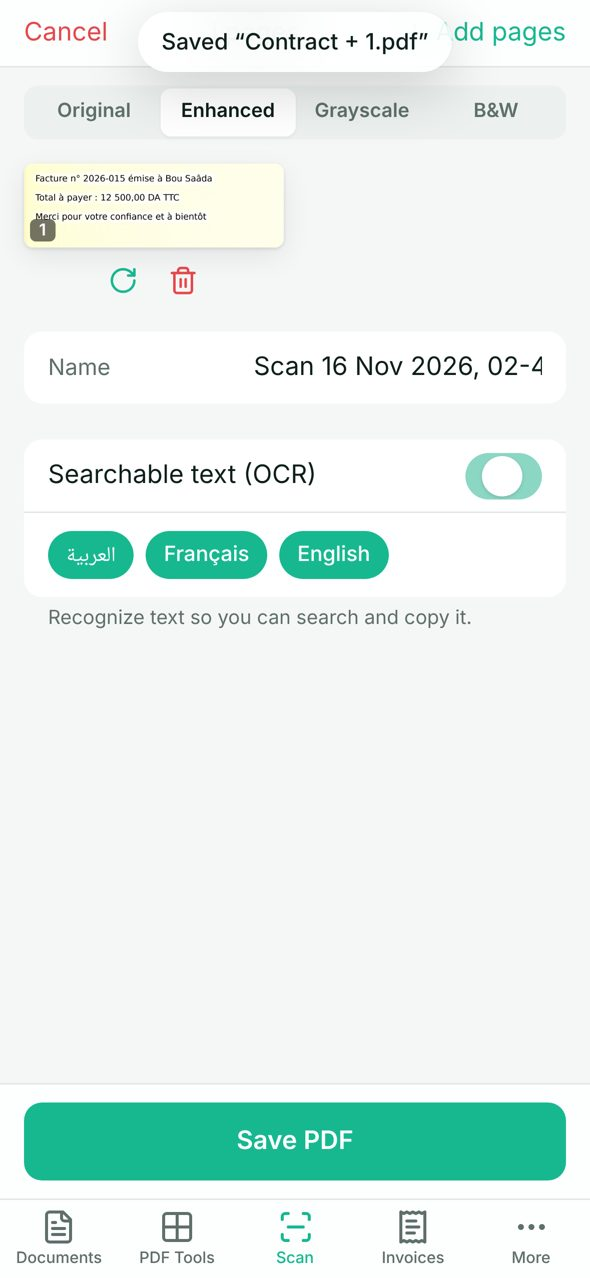
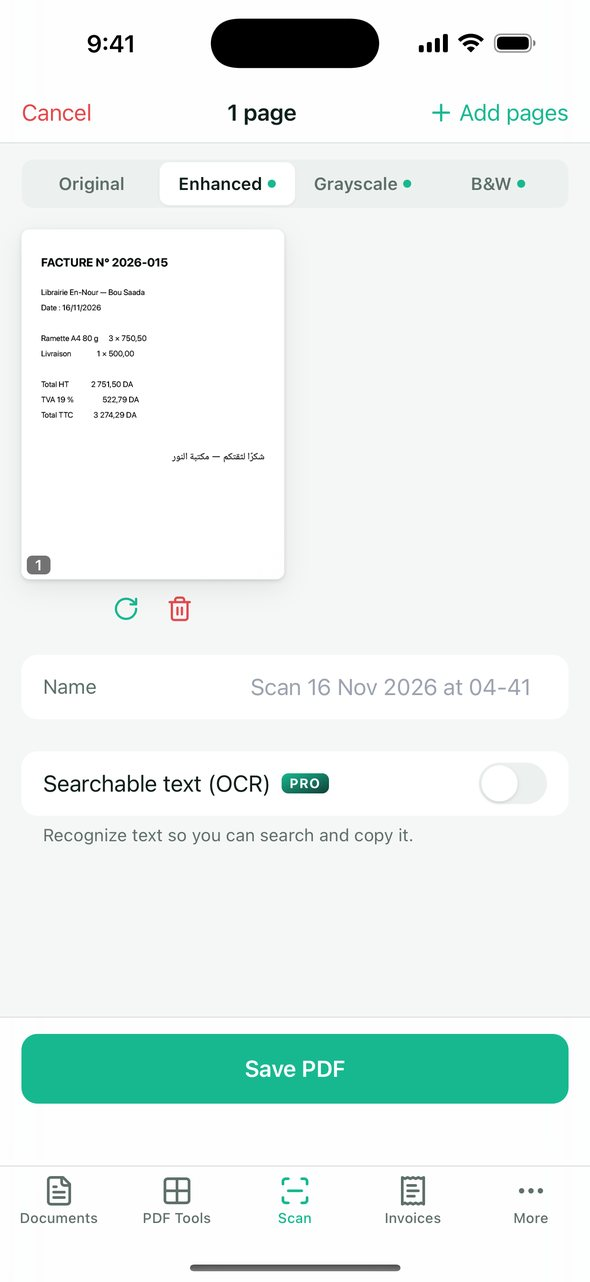
docs(ios): latest CI evidence (8d651e0: build ok, 30/30 simulator captures, StoreKit 7/7), scan-review App Store screenshots (iPhone 6.9" + iPad 13", en/ar), site scan image from the simulator
Claude-Session: https://claude.ai/code/session_01LfDiUxqusgUa7vbRChSDFd

diff --git a/site/nova-docs/index.html b/site/nova-docs/index.html
@@ -66,7 +66,7 @@
 
 <section style="padding-top:0"><div class="wrap">
   <div class="shots"><img src="assets/screens/edit.jpg" alt="" /><img src="assets/screens/tools.jpg" alt="" /><img src="assets/screens/scan.jpg" alt="" /><img src="assets/screens/invoice.jpg" alt="" /><img src="assets/screens/pro.jpg" alt="" /></div>
-  <p class="note"><span data-l="ar">التحرير والأدوات والفاتورة: لقطات حقيقية من التطبيق على محاكي iOS (iPhone 16 Pro Max). المسح وPro: معاينة الواجهة نفسها.</span><span data-l="fr">Édition, outils et facture : captures réelles de l’app sur le simulateur iOS (iPhone 16 Pro Max). Scan et Pro : aperçu de la même interface.</span><span data-l="en">Editing, tools and invoice: real captures of the app on the iOS simulator (iPhone 16 Pro Max). Scan and Pro: preview of the same UI.</span></p>
+  <p class="note"><span data-l="ar">التحرير والأدوات والمسح والفاتورة: لقطات حقيقية من التطبيق على محاكي iOS (iPhone 16 Pro Max). Pro: معاينة الواجهة نفسها.</span><span data-l="fr">Édition, outils, scan et facture : captures réelles de l’app sur le simulateur iOS (iPhone 16 Pro Max). Pro : aperçu de la même interface.</span><span data-l="en">Editing, tools, scan and invoice: real captures of the app on the iOS simulator (iPhone 16 Pro Max). Pro: preview of the same UI.</span></p>
 </div></section>
 
 <section style="padding-top:0"><div class="wrap"><div class="pro">

diff --git a/docs/ios/MORNING_REPORT.md b/docs/ios/MORNING_REPORT.md
@@ -1,6 +1,6 @@
 # التقرير الصباحي — NOVA Docs: PDF & Invoices (iPhone / iPad)
 
-> **آخر تحديث:** الاثنين 16 نوفمبر 2026، نحو 05:25 بتوقيت الجزائر.
+> **آخر تحديث:** الاثنين 16 نوفمبر 2026، نحو 06:10 بتوقيت الجزائر.
 > هذا التقرير يُحدَّث في جلسات المتابعة المجدولة (16 نوفمبر 07:40 و20:00، ثم 17 نوفمبر 07:15 لتسليم الصيغة النهائية قبل 08:00).
 > **لا أدّعي أي عمل بين الجلسات:** كل ما هو مكتوب هنا له دليل في Git أو في نتائج CI.
 
@@ -13,8 +13,8 @@
 |---|---|
 | هل التطبيق جاهز للتقديم إلى App Store؟ | **لا.** ينقص: حساب Apple جاهز (اتفاقية التطبيقات المدفوعة، البنك، الضرائب)، منتج Pro في App Store Connect، توقيع وTestFlight، اختبار على جهاز حقيقي، ونشر روابط الخصوصية والدعم. |
 | الجاهزية الإجمالية | **≈ 65%** (الجدول في §9.8). الجزء الهندسي الممكن دون حسابك وجهازك: **≈ 88%**. |
-| بناء iOS | **BUILD SUCCEEDED** — Xcode 26.3 (17C529)، Debug للمحاكي وRelease للجهاز (دون توقيع). |
-| التشغيل على iOS | محاكي iPhone 16 Pro Max وiPad Pro 13": **20 / 20 مشهدًا صحيحًا**، والحفظ يبقى بعد إعادة التشغيل. |
+| بناء iOS | **BUILD SUCCEEDED** — Xcode 26.3 (17C529)، Debug للمحاكي وRelease للجهاز (دون توقيع)؛ آخر تأكيد على `8d651e0`. |
+| التشغيل على iOS | محاكي iPhone 16 Pro Max وiPad Pro 13": **30 / 30 لقطة صحيحة** (15 مشهدًا لكل جهاز)، والحفظ يبقى بعد إعادة التشغيل. |
 | StoreKit 2 | **7 / 7** اختبارات شراء حقيقية في بيئة StoreKit Testing من Apple. Sandbox: **BLOCKED**. |
 | TestFlight | **BLOCKED** — سير العمل جاهز، تنقصه أسرار حسابك. |
 | Windows | لم يتعطل: typecheck + **88 / 88**. المجلد `platform/` لم يُلمس. |
@@ -68,13 +68,13 @@
 | الأداء (Node): 600 صفحة دمجًا، 1000 فاتورة | كلها < 1 ث (الجهاز غير مقاس) |
 
 ## 6) حالة بناء iOS
-**ناجح.** macOS-15 على GitHub، Xcode 26.3 (17C529)، SDK المحاكي iOS 26.2، هدف النشر iOS 16.0. آخر بناء مؤكد: `5512166`. الدليل: فحوص PR #95 والفرع `ci/nova-docs-ios-results` (`xcode-version.txt`، `xcodebuild-tail.log`).
+**ناجح.** macOS-15 على GitHub، Xcode 26.3 (17C529)، SDK المحاكي iOS 26.2، هدف النشر iOS 16.0. آخر بناء مؤكد: `8d651e0` (يشمل إضافة قفل التطبيق الأصلية). الدليل: فحوص PR #95 والفرع `ci/nova-docs-ios-results` (`xcode-version.txt`، `xcodebuild-tail.log`).
 
 ## 7) حالة TestFlight
 **BLOCKED — لم يُرفع أي بناء.** الجاهز: سير العمل `nova-docs-testflight.yml` (يدوي، Environment `apple-release`، توقيع تلقائي بمفتاح App Store Connect API). الناقص: الأسرار `APPLE_TEAM_ID`، `ASC_KEY_ID`، `ASC_ISSUER_ID`، `ASC_KEY_P8_BASE64` + تسجيل التطبيق في App Store Connect. الخطوات في `APP_STORE_CHECKLIST.md`.
 
 ## 8) اللقطات
-- للمتجر: `docs/ios/screenshots/iphone-6.9/` (1320×2868) و`ipad-13/` (2064×2752): المحرر، الأدوات، الفواتير، تفاصيل فاتورة، الفواتير بالعربية، الأدوات بالعربية الداكنة.
+- للمتجر: `docs/ios/screenshots/iphone-6.9/` (1320×2868) و`ipad-13/` (2064×2752) — 8 لكل جهاز: المحرر، الأدوات، الفواتير، تفاصيل فاتورة، الفواتير بالعربية، الأدوات بالعربية الداكنة، مراجعة المسح (إنجليزي وعربي).
 - كل مشاهد كل تشغيل: الفرع `ci/nova-docs-ios-results` ← `shots/`.
 
 ---
@@ -144,7 +144,7 @@
 | بناء iOS (Debug + Release) | 10 | 100% | BUILD SUCCEEDED |
 | التشغيل على محاكي iOS | 10 | 85% | 20/20 مشهدًا + OCR وتصدير الفاتورة داخل iOS؛ الكاميرا غير متاحة على المحاكي |
 | المدفوعات: الشيفرة واختبارات StoreKit | 10 | 85% | 7/7 StoreKit Testing + 13/13 منطق الواجهة؛ Sandbox ناقص |
-| مواد المتجر | 10 | 80% | نصوص ar/fr/en، أيقونة، Privacy Manifest، 12 لقطة؛ تحتاج مراجعتك |
+| مواد المتجر | 10 | 80% | نصوص ar/fr/en، أيقونة، Privacy Manifest، 16 لقطة؛ تحتاج مراجعتك |
 | اختبار جهاز حقيقي | 10 | 0% | لا جهاز |
 | حساب Apple (اتفاقيات، بنك، منتج في ASC، Sandbox) | 10 | 0% | غير معروف — يحتاجك |
 | التوقيع وTestFlight | 5 | 20% | سير العمل جاهز، الأسرار ناقصة |

diff --git a/docs/ios/TEST_RESULTS.md b/docs/ios/TEST_RESULTS.md
@@ -83,10 +83,10 @@ PDF قابل للبحث من صفحة ممسوحة: النص المستخرج ب
 macOS-15 على GitHub، **Xcode 26.3 (17C529)**:
 - Debug للمحاكي: **BUILD SUCCEEDED**
 - Release للجهاز (arm64، دون توقيع): **BUILD SUCCEEDED**
-- ناجح على الدفعات: `09d39fb`، `fa9ddfd`، `fad579b`، `72ed615`، `ef096ae`، `5512166` (SDK المحاكي: iOS 26.2، هدف النشر iOS 16.0).
+- ناجح على الدفعات: `09d39fb`، `fa9ddfd`، `fad579b`، `72ed615`، `ef096ae`، `5512166`، `2efccba`، `9d77673`، `8d651e0` (SDK المحاكي: iOS 26.2، هدف النشر iOS 16.0).
 
 ## 7) التشغيل على محاكي iOS الحقيقي — COMPLETE للمشاهد العشر / PARTIAL للتطبيق ككل
-الأجهزة: **iPhone 16 Pro Max** و**iPad Pro 13-inch (M4)**. 10 مشاهد لكل جهاز تُلتقط آليًا في كل تشغيل؛ آخر تشغيل كامل: `5512166` — **20 / 20 مشهدًا صحيحًا**.
+الأجهزة: **iPhone 16 Pro Max** و**iPad Pro 13-inch (M4)**. 15 مشهدًا لكل جهاز تُلتقط آليًا في كل تشغيل؛ آخر تشغيل كامل: `8d651e0` — **30 / 30 لقطة صحيحة** (منها: الاختباران الذاتيان، مراجعة المسح بالعربية والإنجليزية بعد المرشح الجديد، الإعدادات مع قفل التطبيق — الإضافة الأصلية `NovaLock` ترد على iOS).
 نسخة مختارة محفوظة للمتجر في `docs/ios/screenshots/iphone-6.9/` (1320×2868) و`ipad-13/` (2064×2752).
 
 ما ثبت على iOS نفسه (WKWebView + Swift، من السجلات واللقطات):
@@ -123,7 +123,7 @@ macOS-15 على GitHub، **Xcode 26.3 (17C529)**:
 هدف `AppTests` (SKTestSession + `NovaDocs.storekit`) يختبر الملف الذي يستعمله التطبيق نفسه `NovaEntitlements.swift`:
 المنتج Non-Consumable بسعر 4.99 وليس اشتراكًا · الشراء الموثّق يفتح · Ask to Buy معلّق لا يفتح ثم الموافقة تفتح · الرفض لا يفتح · الاسترداد يسحب · الشراء الفاشل لا يفتح · شراء من جهاز آخر يُعترف به (أساس الاستعادة).
 
-**النتيجة (تشغيل CI على `5512166`، محاكي iPhone 16 Pro Max، Xcode 26.3): 7 / 7 ناجحة — `** TEST SUCCEEDED **`**
+**النتيجة: 7 / 7 ناجحة — `** TEST SUCCEEDED **`** على `5512166` ثم أُعيدت بنجاح في كل تشغيل لاحق (`2efccba`، `9d77673`، `8d651e0`)، محاكي iPhone 16 Pro Max، Xcode 26.3.
 
 | الاختبار | النتيجة | الزمن |
 |---|---|---|

diff --git a/docs/ios/APP_STORE_CHECKLIST.md b/docs/ios/APP_STORE_CHECKLIST.md
@@ -14,7 +14,7 @@
 | 10 | منتج StoreKit + ملف اختبار | COMPLETE (شيفرة + 7/7 اختبارات StoreKit Testing) / BLOCKED (App Store Connect) | المنتج يجب أن يُنشأ في App Store Connect بالمعرّف نفسه حرفيًا |
 | 11 | وصف المتجر والكلمات المفتاحية ar/fr/en | COMPLETE | `APP_STORE_METADATA.md` (الأطوال محسوبة) |
 | 12 | سياسة الخصوصية + الشروط + الدعم | COMPLETE (محتوى) / BLOCKED (نشر) | `site/nova-docs/` — يحتاج استضافة بموافقتك |
-| 13 | لقطات iPhone 6.9" وiPad 13" حقيقية | PARTIAL | 6 لكل جهاز من المحاكي الحقيقي بالمقاسات المقبولة (1320×2868 و2064×2752) في `docs/ios/screenshots/`. **راجعها قبل الرفع**: بيانات الفواتير التجريبية مأخوذة من نسخة Windows وفيها اسم «ليلى مراد» (اسم فنانة معروفة) — يُفضَّل استبداله؛ ولا توجد لقطة للمسح بالكاميرا (المحاكي بلا كاميرا) ولا لشاشة Pro بسعر حقيقي. |
+| 13 | لقطات iPhone 6.9" وiPad 13" حقيقية | PARTIAL | 8 لكل جهاز من المحاكي الحقيقي بالمقاسات المقبولة (1320×2868 و2064×2752) في `docs/ios/screenshots/`. **راجعها قبل الرفع**: بيانات الفواتير التجريبية مأخوذة من نسخة Windows وفيها اسم «ليلى مراد» (اسم فنانة معروفة) — يُفضَّل استبداله؛ ولقطة المسح هي شاشة المراجعة لصورة مولَّدة (المحاكي بلا كاميرا) ولا لشاشة Pro بسعر حقيقي. |
 | 14 | التوقيع (Signing) | BLOCKED | يحتاج Team ID وشهادة (أو مفتاح App Store Connect API للتوقيع التلقائي) |
 | 15 | IPA / Release Archive | BLOCKED | سير العمل `nova-docs-testflight.yml` جاهز ويحتاج الأسرار الأربعة |
 | 16 | TestFlight | BLOCKED | نفس ما سبق + تسجيل التطبيق في App Store Connect |
